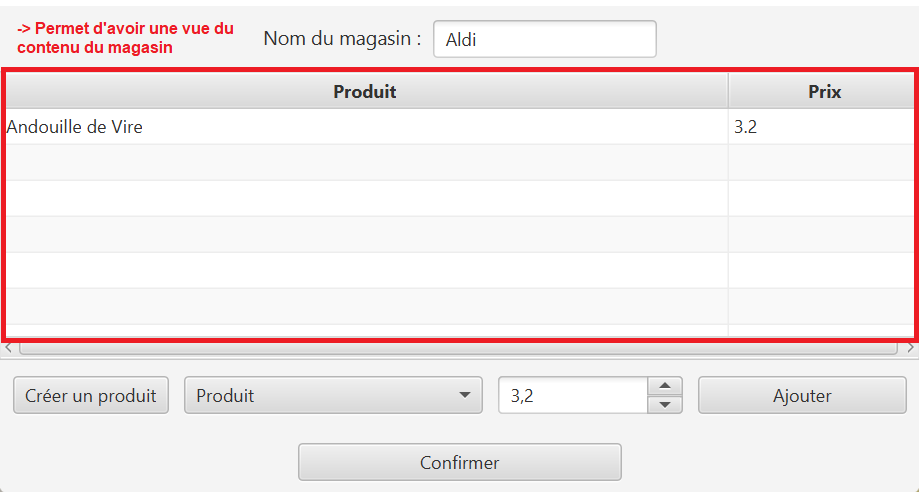
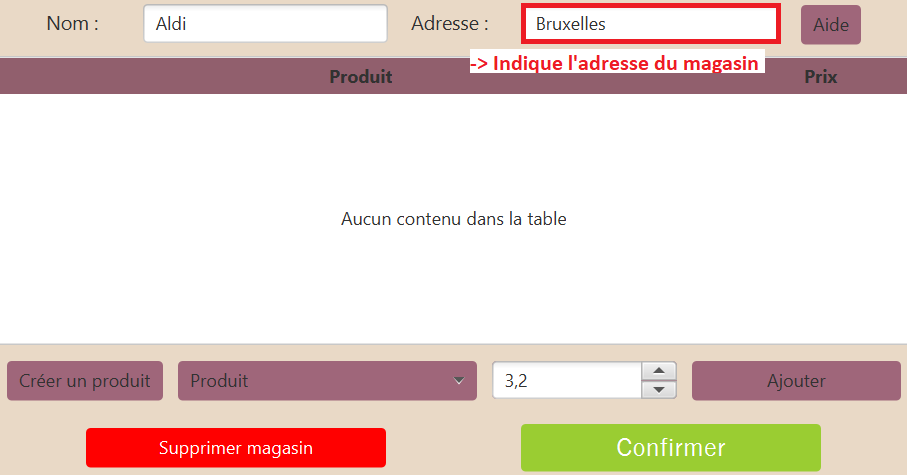
[MOD] shop avec new interface

diff --git a/src/main/java/ulb/infof307/g01/controller/shop/ShopController.java b/src/main/java/ulb/infof307/g01/controller/shop/ShopController.java
@@ -160,7 +160,7 @@ public class ShopController extends Controller implements ShopViewController.Lis
      */
     @Override
     public void displayHelpShop() {
-        int numberOfImageHelp = 14;
+        int numberOfImageHelp = 8;
         HelpController helpController = new HelpController("helpShop/", numberOfImageHelp);
         helpController.displayHelpShop();
     }
